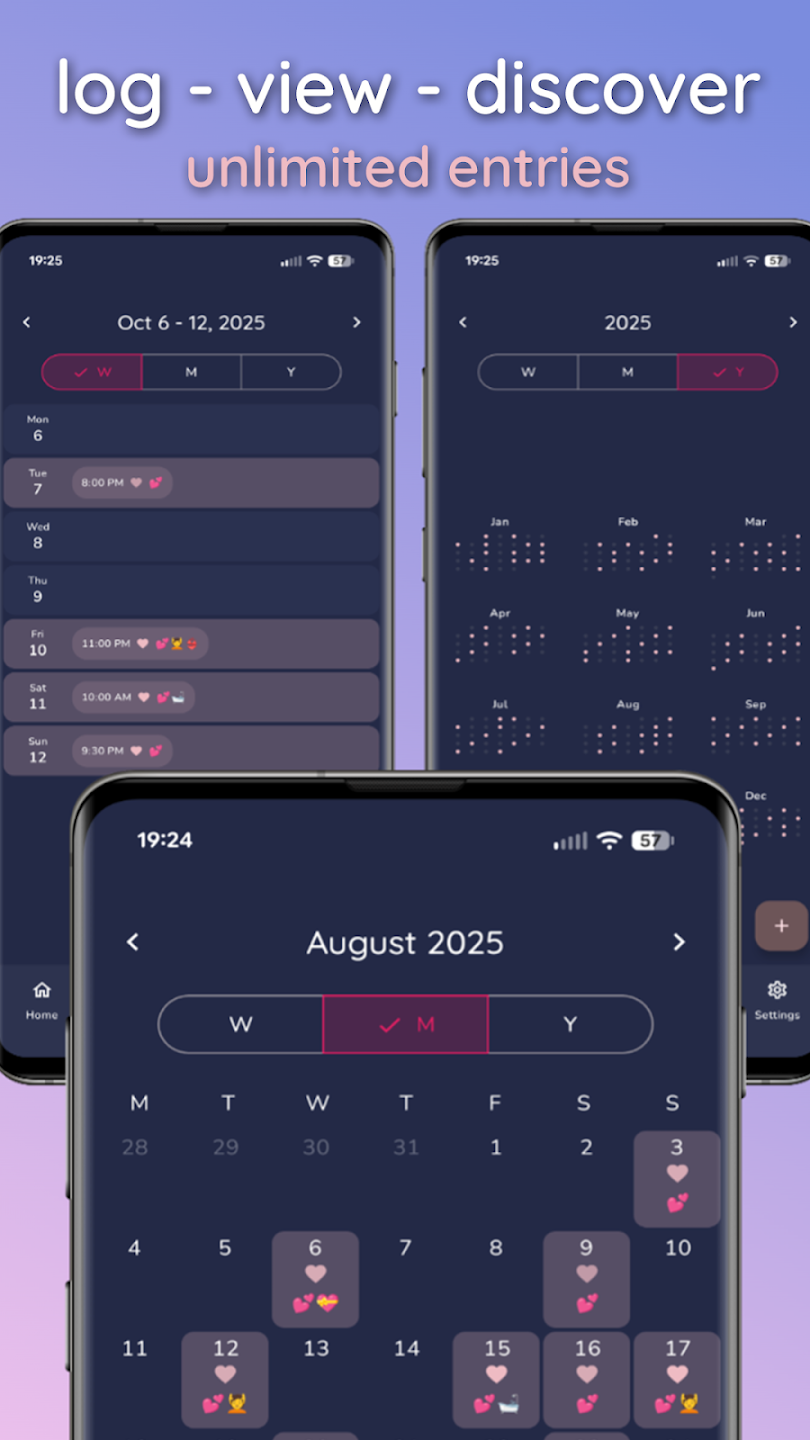
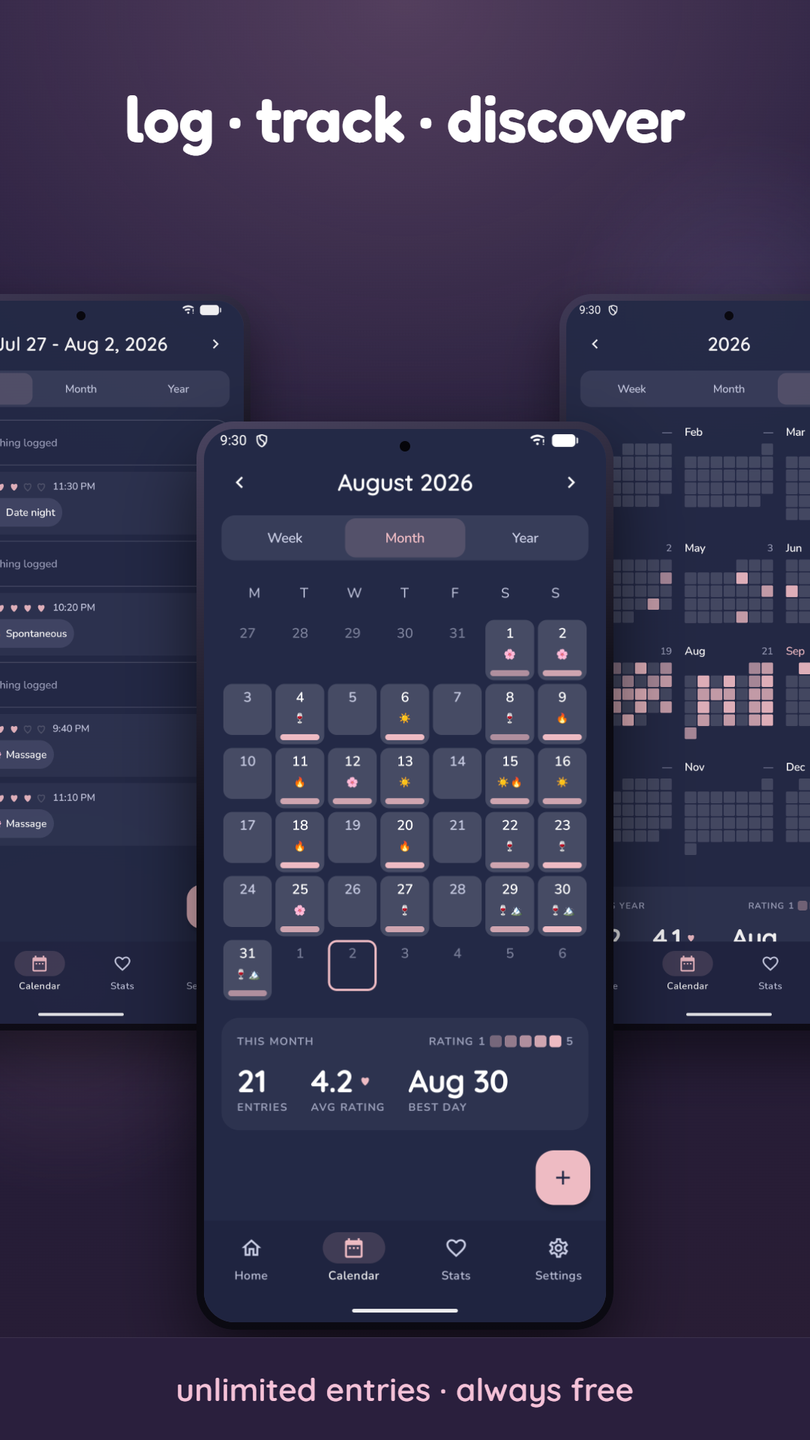
swap to new screenshots design

diff --git a/index.html b/index.html
@@ -384,8 +384,8 @@ footer {
 <section class="screenshots-section container">
   <div class="screenshots">
     <div class="screenshot"><img src="./screenshots/01-home.png" alt="Petaly home screen — track your moments beautifully"/></div>
-    <div class="screenshot"><img src="./screenshots/02-calendar.png" alt="Petaly calendar — log, view and discover with unlimited entries"/></div>
-    <div class="screenshot"><img src="./screenshots/03-privacy.png" alt="Petaly new entry — custom notes, activities and tags"/></div>
+    <div class="screenshot"><img src="./screenshots/02-calendar.png" alt="Petaly calendar — log, track and discover with unlimited entries"/></div>
+    <div class="screenshot"><img src="./screenshots/03-stats.png" alt="Petaly stats — trends, patterns and insights"/></div>
   </div>
 </section>
 
